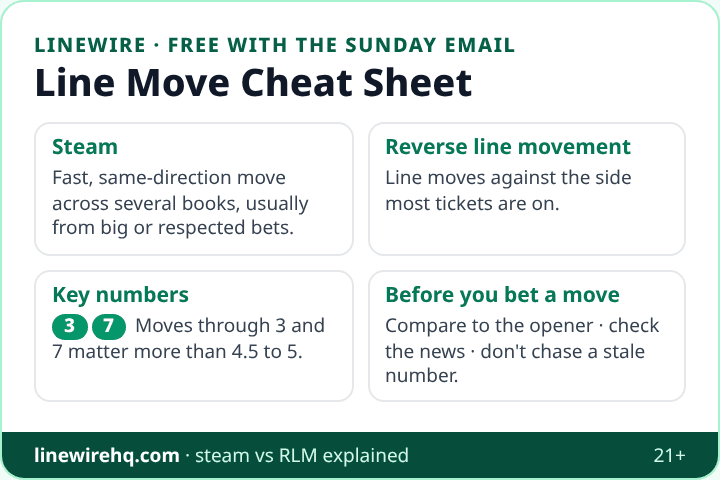
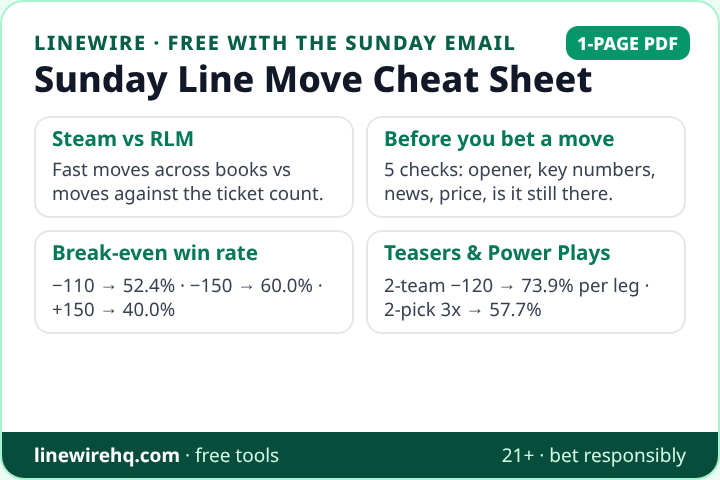
upload9: assets

diff --git a/assets/lw.js b/assets/lw.js
@@ -5,7 +5,8 @@ var css='.lwp{text-align:left}.lwp h3{margin:0 0 4px;color:#047857}.lwp .ck{disp
 var st=document.createElement('style');st.textContent=css;document.head.appendChild(st);
 function esc(s){return String(s).replace(/[&<>"]/g,function(c){return{'&':'&amp;','<':'&lt;','>':'&gt;','"':'&quot;'}[c]})}
 function ck(n,v,c,l){return '<label class="ck"><input type="checkbox" name="'+n+'" value="'+v+'"'+(c?' checked':'')+'> '+(l||v)+'</label>'}
-function prefsHTML(em,f_pro){return '<div class="lwp">'+(f_pro?'<h3>You\'re on the Pro waitlist ✓</h3>':'<h3>You\'re in ✓</h3>')+'<p><strong>Check your inbox (and spam folder)</strong> for the welcome email from news@linewirehq.com.</p>'+(f_pro?'':'<p>Your free <strong>Line Move Cheat Sheet</strong> is ready now: <a href="/steam-rlm.html?utm_source=site&utm_medium=signup_success">open it →</a></p>')+
+function lwCS(){return ['','rewards','sunday-cheat-sheet-'+'p494i2yjzxv2'].join('/')+'.pdf'}
+function prefsHTML(em,f_pro){return '<div class="lwp">'+(f_pro?'<h3>You\'re on the Pro waitlist ✓</h3>':'<h3>You\'re in ✓</h3>')+'<p><strong>Check your inbox (and spam folder)</strong> for the welcome email from news@linewirehq.com.</p>'+(f_pro?'':'<p>Your free <strong>Sunday Line Move Cheat Sheet</strong> (1-page PDF) is ready now: <a rel="nofollow noopener" target="_blank" href="'+lwCS()+'?utm_source=site&utm_medium=signup_success">download it →</a></p>')+
 '<form class="lw-inline-prefs" novalidate><input type="hidden" name="email" value="'+esc(em)+'"><input type="hidden" name="source" value="inline_prefs"><input type="hidden" name="_subject" value="Linewire prefs update">'+
 '<p class="n" style="margin:10px 0 0">Optional: tailor your email (10 seconds)</p>'+
 '<fieldset><legend>Sports</legend>'+ck('sports[]','NFL',1)+'<p class="n" style="margin:6px 0 2px">Notify me when live:</p>'+ck('sports[]','NBA')+ck('sports[]','MLB')+ck('sports[]','NHL')+ck('sports[]','CFB')+ck('sports[]','CBB')+'</fieldset>'+
